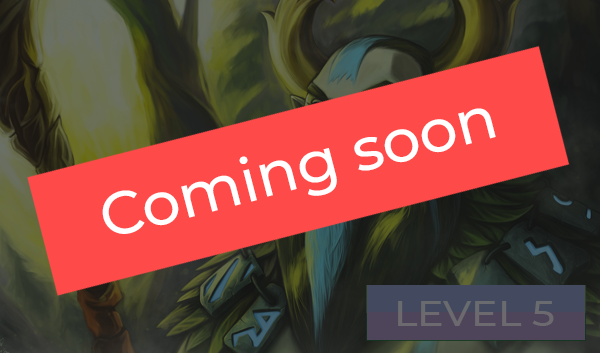
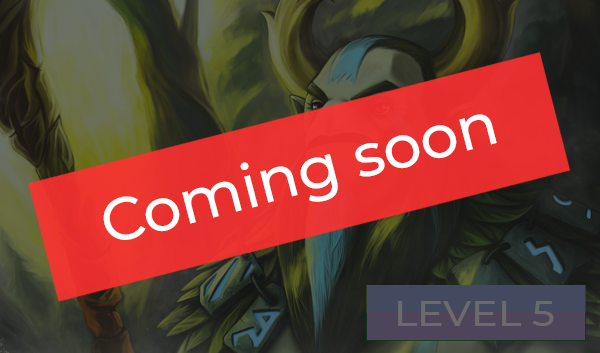
ads added

Changed region(s): [[0.03, 0.1246, 0.96, 0.8725]]

diff --git a/css/main.css b/css/main.css
@@ -12,7 +12,10 @@ body.modal-open {
 }
 ul {
   margin: 0; }
-
+.ad-img {
+  margin:0 auto;
+  margin-top:20px;
+}
 h1,
 h2,
 h3,
@@ -180,118 +183,6 @@ ul {
   width: 80%;
   height: 40px;
   margin-bottom: 20px; }
-
-.eat-in {
-  width: 45%;
-  height: 100%;
-  background-color: #181818;
-  float: left;
-  color: white;
-  text-align: center;
-  font-size: 21px;
-  margin: 2.5%;
-  cursor: pointer;
-  display: flex; }
-
-.takeaway {
-  display: flex;
-  width: 45%;
-  height: 100%;
-  background-color: #fff;
-  float: left;
-  color: black;
-  text-align: center;
-  font-size: 21px;
-  margin: 2.5%;
-  cursor: pointer; }
-
-.eat-in-takeaway-wrapper {
-  margin: 30px auto 0 auto;
-  height: 250px;
-  width: 90%; }
-
-.continue-text {
-  clear: both;
-  color: #ebebeb;
-  text-align: center;
-  font-size: 14px;
-  cursor: pointer;
-  padding-top: 20px;
-  text-decoration: underline; }
-
-/* ================
-    WEBSITE.HTML
-================== */
-.find-your-local-text {
-  color: white;
-  padding: 30px;
-  clear: both; }
-
-.inside-renkon-container {
-  width: 90%;
-  margin: 0 auto;
-  background-color: #131313;
-  text-align: center;
-  color: white; }
-
-.inside-renkon-container img {
-  width: 90%;
-  padding: 5% 0% 5% 0%; }
-
-.inside-renkon-container h3 {
-  width: 80%;
-  margin: 0 auto;
-  line-height: 40px; }
-
-.inside-renkon-container button {
-  background-color: #181818;
-  padding: 15px;
-  border: none;
-  width: 60%;
-  height: 40px;
-  margin-top: 10px; }
-
-.find-your-local-div {
-  width: 90%;
-  margin: 0 auto; }
-
-.find-your-local-div input {
-  height: 50px;
-  width: 68%;
-  float: left; }
-
-.find-your-local-div button {
-  background-color: #181818;
-  height: 50px;
-  width: 30%;
-  margin-left: 2%;
-  border: none;
-  color: white;
-  float: left; }
-
-.eat-in-website {
-  width: 45%;
-  height: 100%;
-  background-color: #181818;
-  float: left;
-  color: white;
-  text-align: center;
-  font-size: 21px;
-  cursor: pointer;
-  padding: 10px 0px 10px 0px;
-  margin: 2.5%; }
-
-.takeaway-website {
-  margin: 2.5%;
-  width: 45%;
-  height: 100%;
-  background-color: #fff;
-  float: left;
-  color: black;
-  text-align: center;
-  font-size: 21px;
-  cursor: pointer;
-  padding: 10px 0px 10px 0px; }
 
 html > #body-error {
   background-color: black !important; }
@@ -654,12 +545,10 @@ textarea {
         height:55px !important;
       }
     }
-
     @media screen and (min-width: 1680px) {
       .modal-content {
         width: 25% !important;
-        border: none !important; 
-      }
+        border: none !important; }
       .keyboard-container button {
         height:50px !important;
         font-size:20px !important;

diff --git a/level.php b/level.php
@@ -90,7 +90,15 @@
         </a>
     </ul>
     <!-- SECOND NAV BAR -->
-
+    <!-- ADVERTISEMENT -->
+    <div class="ad-container text-center">
+        <div class="row">
+        <div class="col-lg-12">
+        <img class="img-responsive ad-img" src="https://via.placeholder.com/1000x150">
+        </div>
+        </div>
+    </div>
+    <!-- ADVERTISEMENT -->
     <div class="container container-rendered">
         <div class="row quiz-items" id="stage-container">
             <!-- STAGES ARE RENDERED HERE USING HANDLEBARS -->

diff --git a/index.php b/index.php
@@ -60,8 +60,14 @@
         </a>
     </ul>
     <!-- SECOND NAV BAR -->
-
-    <!-- DONBURI ROW -->
+    <div class="ad-container text-center">
+        <div class="row">
+        <div class="col-lg-12">
+        <img class="img-responsive ad-img" src="https://via.placeholder.com/1000x150">
+        </div>
+        </div>
+    </div>
+    
     <div class="container">
         <div class="row">
             <?php for ($i = 1; $i < 6; $i++) { ?>

diff --git a/about.php b/about.php
@@ -66,9 +66,9 @@
     <!-- SECOND NAV BAR -->
     <ul class="main-nav-phone">
         <!-- <li class="twitter_bird"><i class="fab fa-twitter"></i></li> -->
-        <a href="info.php">
+        <!-- <a href="info.php">
             <li>Info</li>
-        </a>
+        </a> -->
         <a href="index.php">
             <li>Play</li>
         </a>
